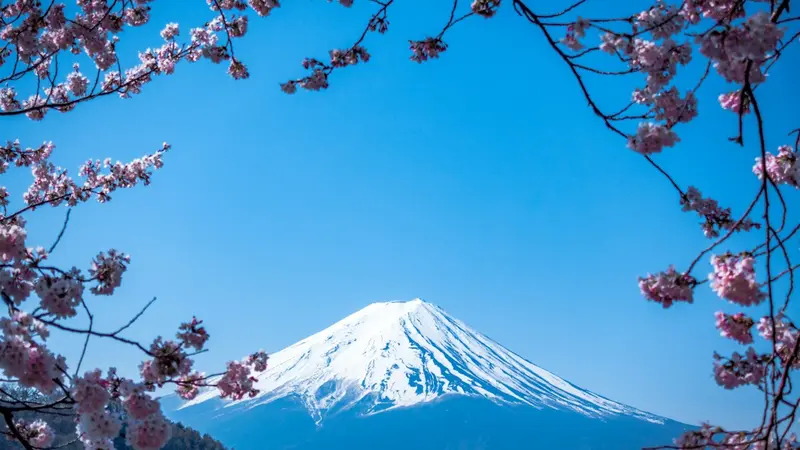
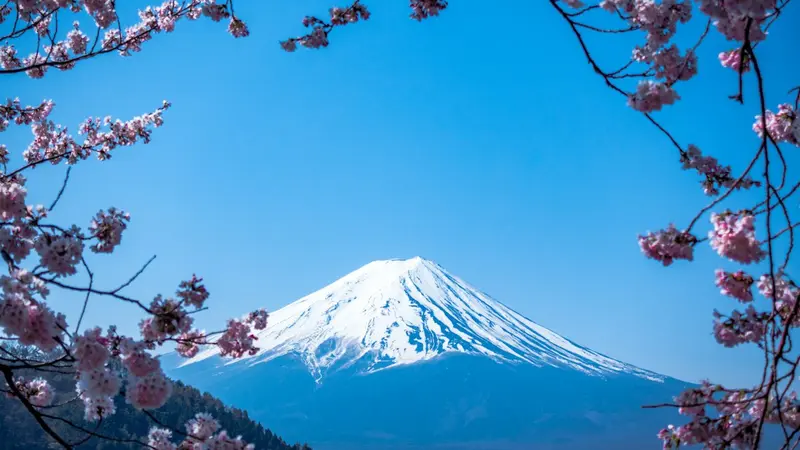
Japan card photo: keep the whole of Mt Fuji in frame
Claude-Session: https://claude.ai/code/session_01Arg9CrMYbny3nbAmWuLXCc

diff --git a/client/src/pages/Home.tsx b/client/src/pages/Home.tsx
@@ -48,6 +48,10 @@ const DESTINATION_PHOTOS: Record<string, string> = {
   JP: "/destinations/jp.webp", KR: "/destinations/kr.webp", TH: "/destinations/th.webp", GB: "/destinations/gb.webp",
   US: "/destinations/us.webp", AU: "/destinations/au.webp", FR: "/destinations/fr.webp", TW: "/destinations/tw.webp",
 };
+// Where the subject sits in photos whose interesting part is not in the middle
+const PHOTO_POSITION: Record<string, string> = {
+  "/destinations/jp.webp": "object-bottom", // Mt Fuji is at the bottom of the frame
+};
 
 const REGION_TRANSLATION_KEY: Record<string, keyof ReturnType<typeof useLanguage>["t"]["regions"]> = {
   Asia: "asia",
@@ -121,7 +125,7 @@ function ProductCard({ product, markupPct = 0, photo }: { product: Record<string
     >
       {photo && (
         <div className="aspect-[16/7] overflow-hidden bg-muted">
-          <img src={photo} alt="" width={800} height={350} loading="lazy" decoding="async" className="w-full h-full object-cover group-hover:scale-105 transition-transform duration-300" />
+          <img src={photo} alt="" width={800} height={350} loading="lazy" decoding="async" className={`w-full h-full object-cover ${PHOTO_POSITION[photo] ?? ""} group-hover:scale-105 transition-transform duration-300`} />
         </div>
       )}
       <div className="p-5 flex flex-col flex-1">
